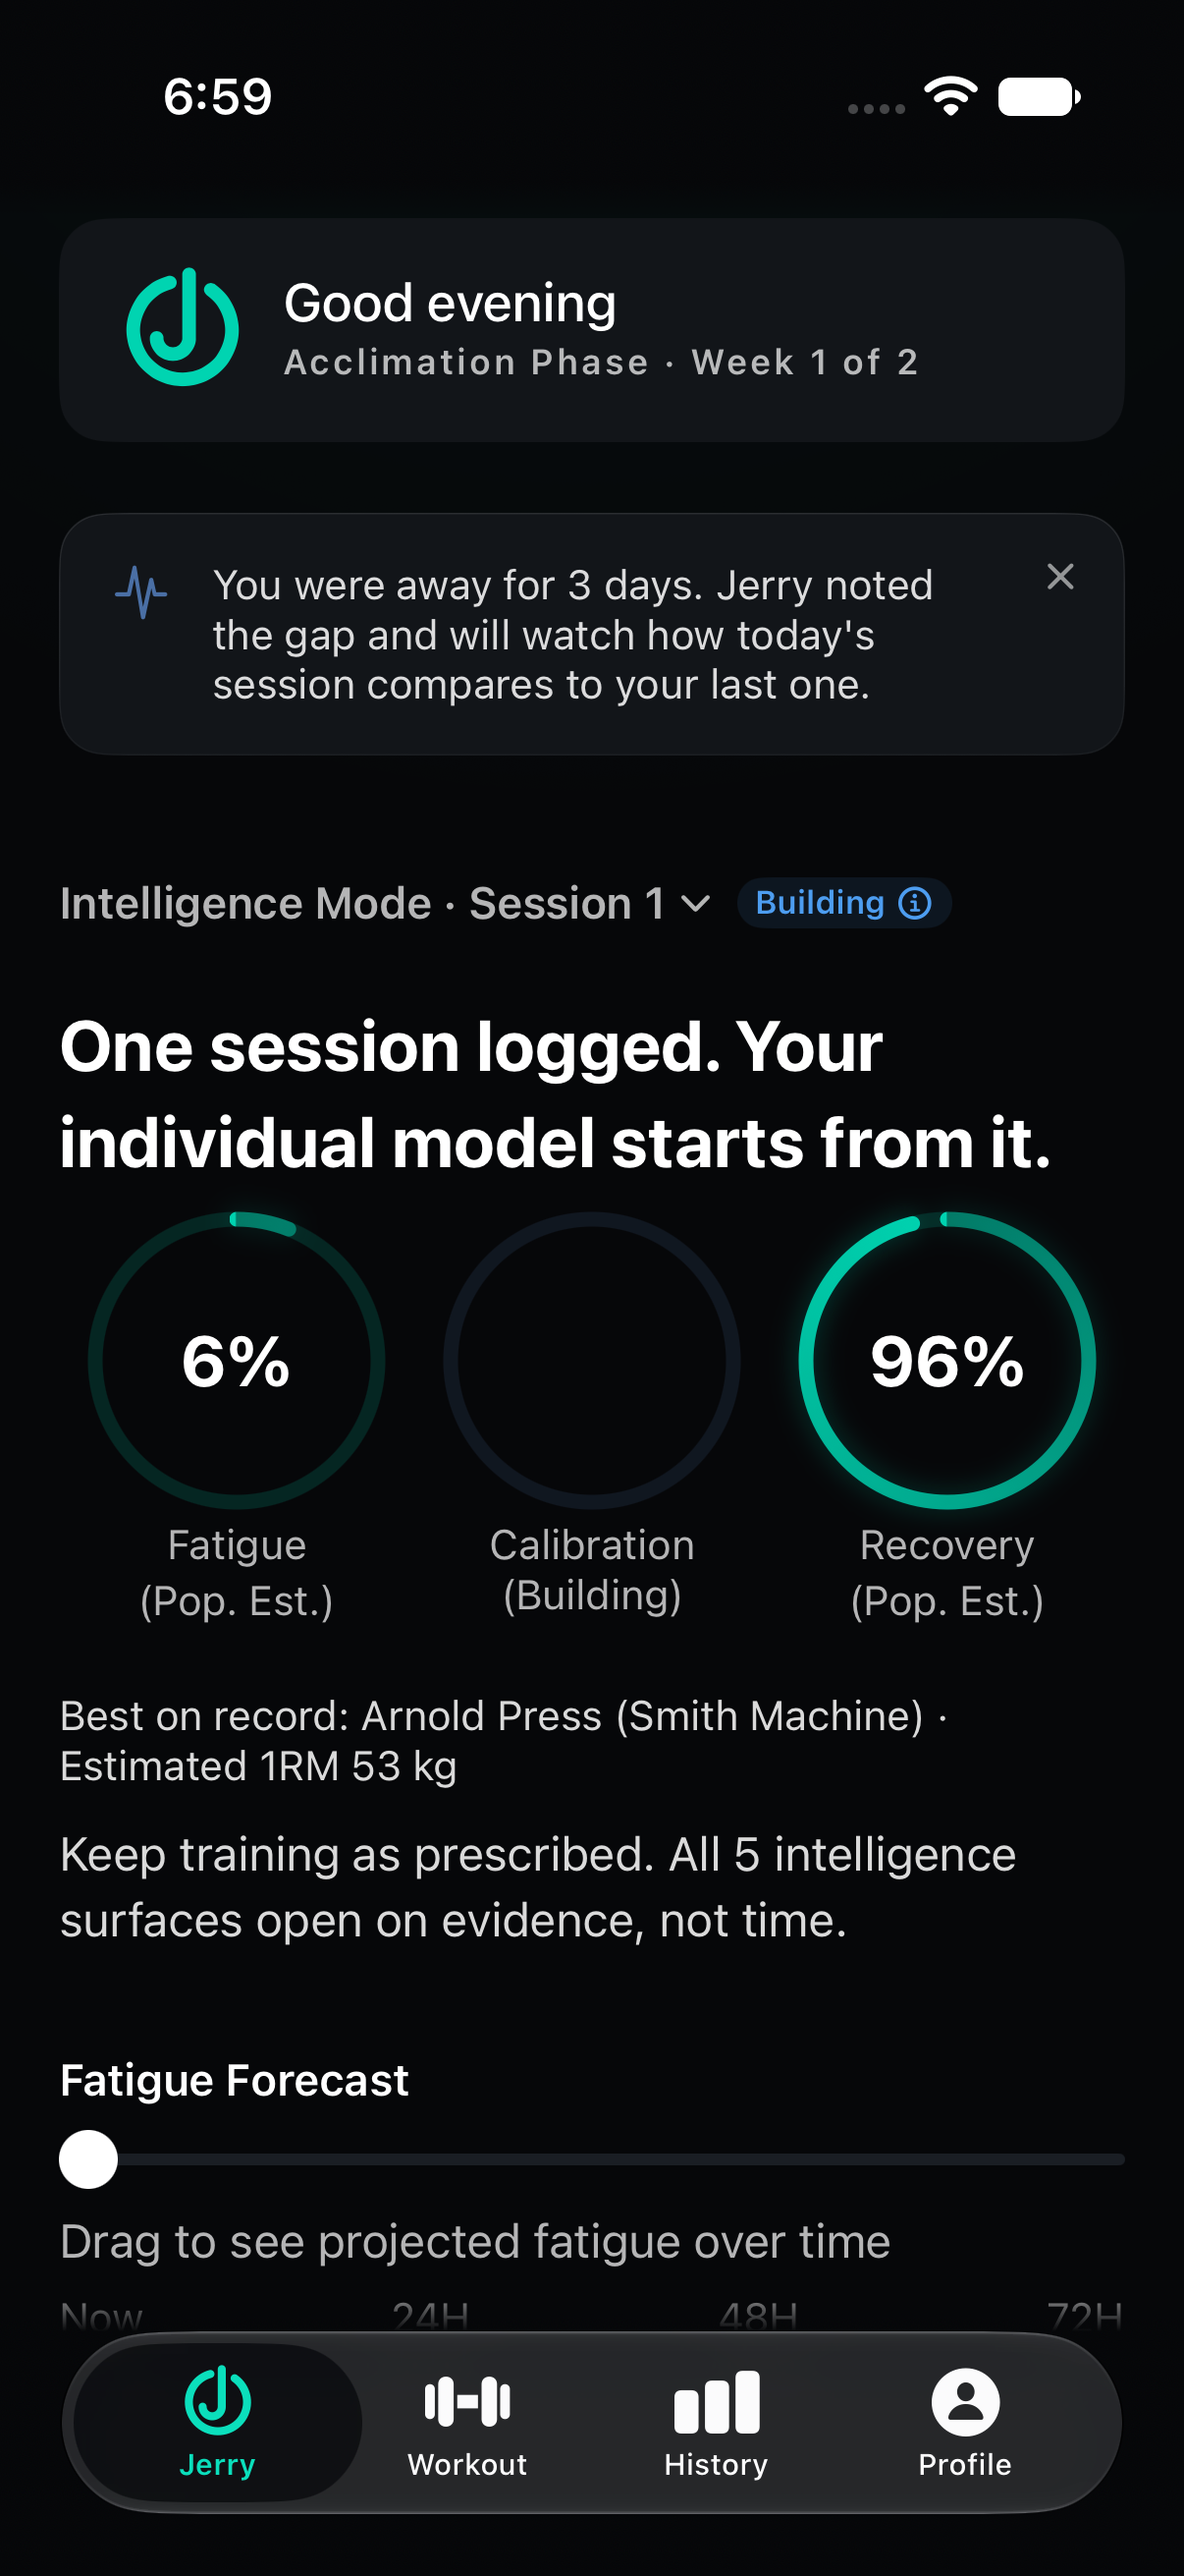
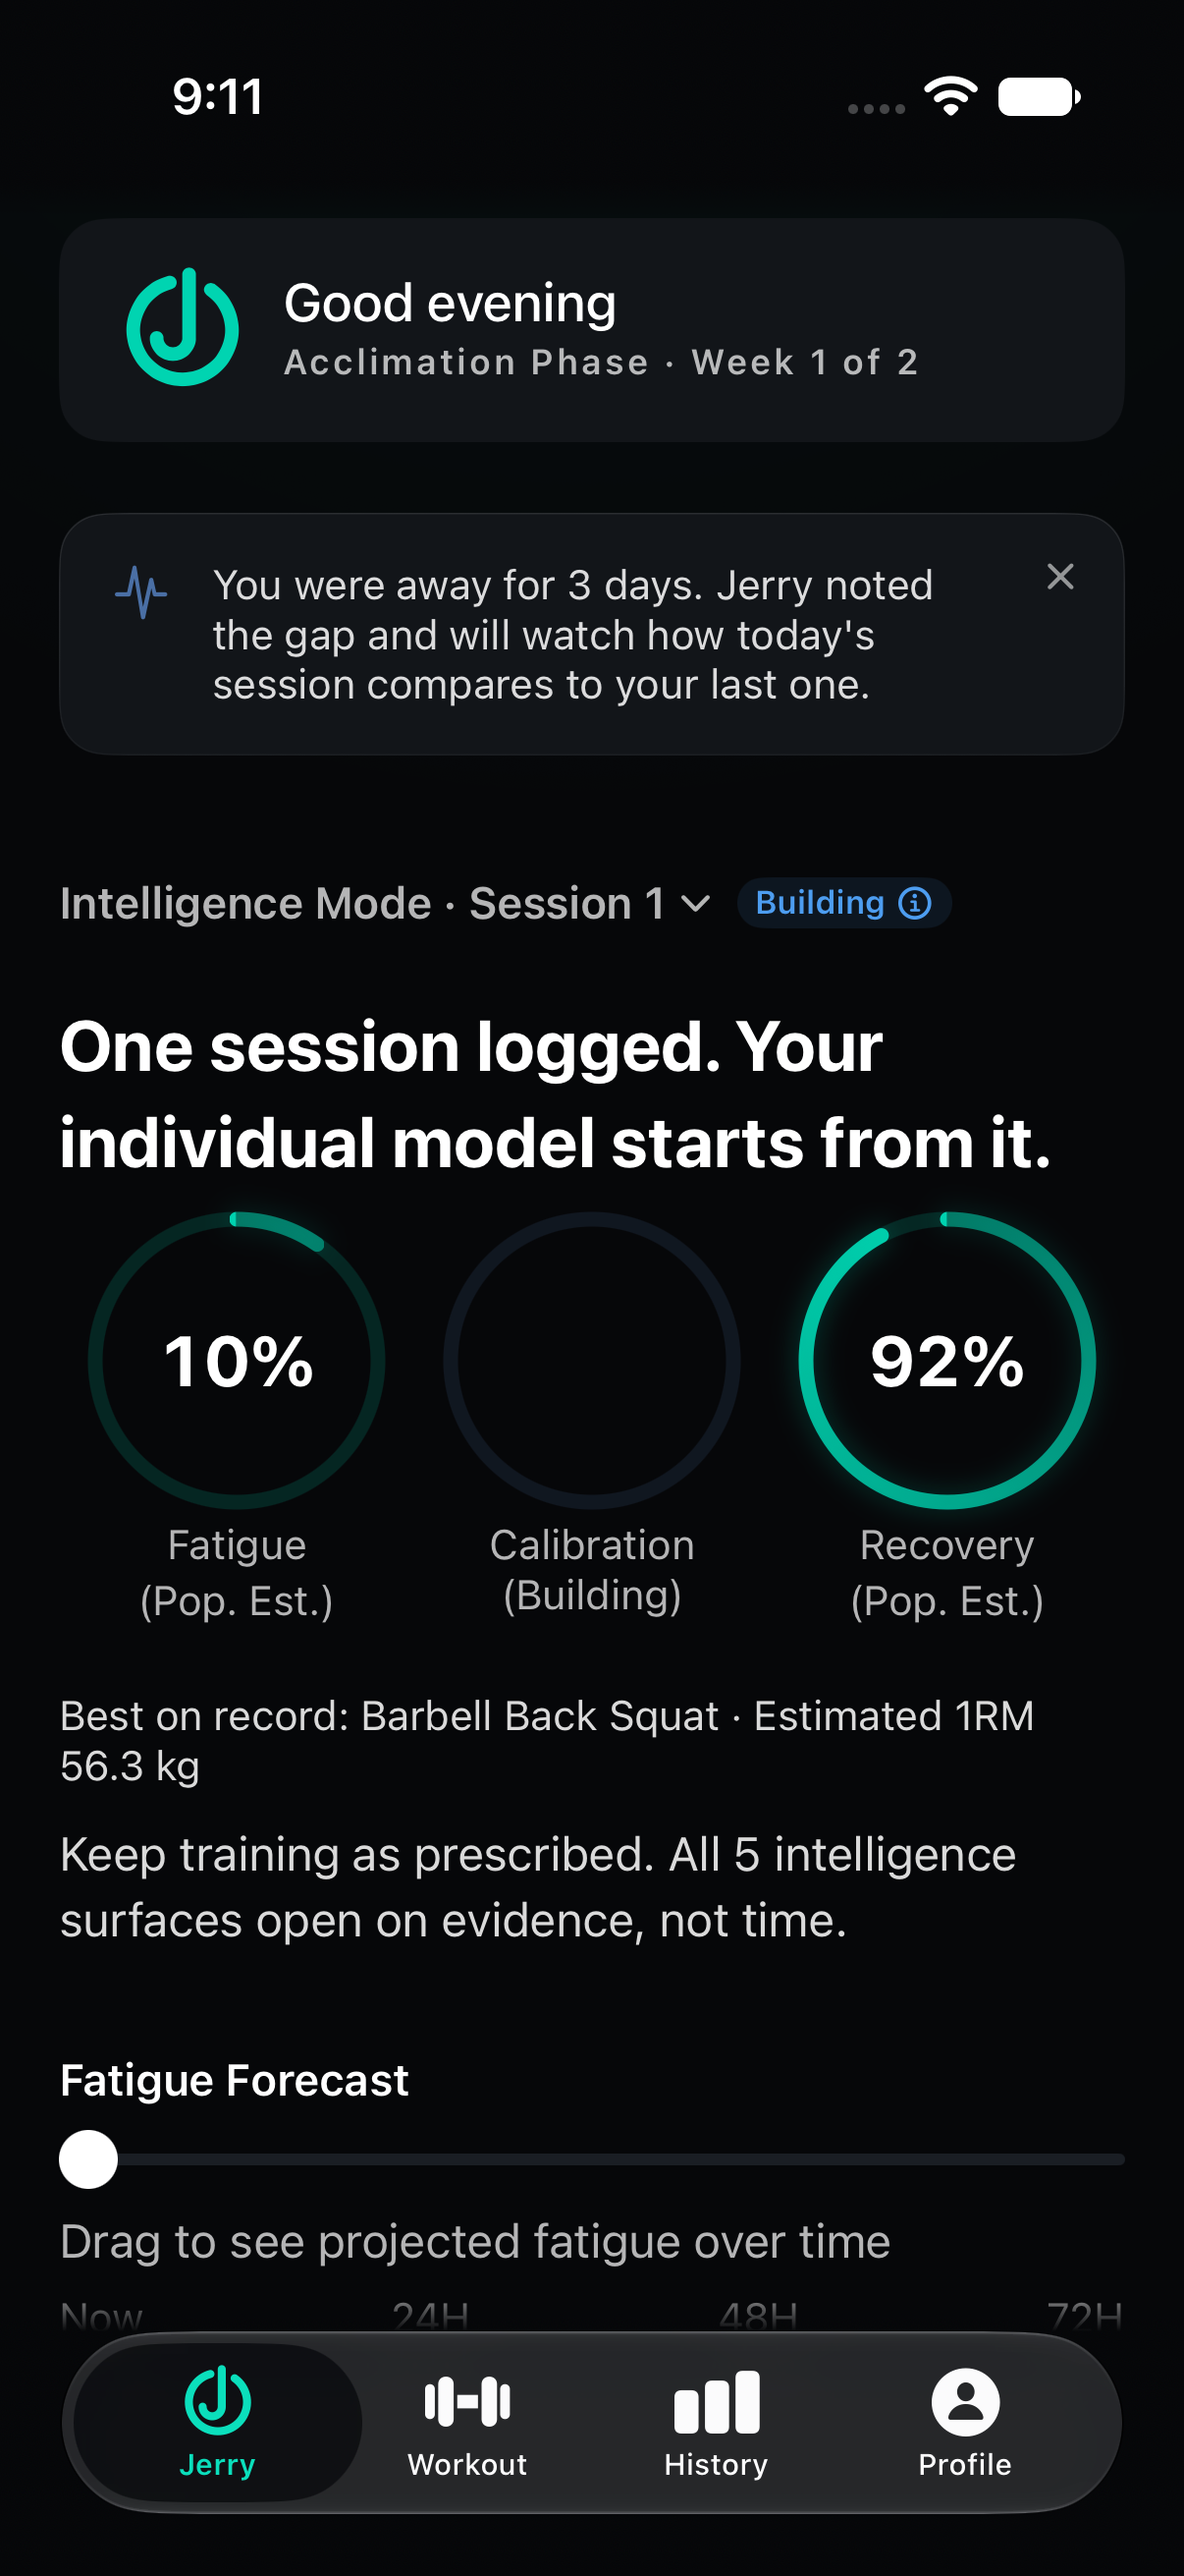
The athlete on the front page trains a week a human would recognise
[verify-exempt: SEPARATE repo at ~/Desktop/orderedstrength-site, zero Swift. The Swift half
of this round lives in the app repo's `.claude/worktrees/shots` worktree and is committed
separately behind its own gate.]

You said the exercise on the screenshot does not exist, and you were right twice over: an
Arnold press rotates the wrists through the press and a Smith bar is fixed in a track, so
nobody has ever performed one. The catalog holding that row is a separate problem for its
own pass. This is why it reached the FRONT PAGE.

THE FIXTURE PHOTOGRAPHED THE ALPHABET. The cold-start seeder took `database.prefix(6)`, and
the catalog is fetched with `NSSortDescriptor(key: "name", ascending: true)`. So the athlete
in every screenshot this project has ever published trained, every time, exactly: 45-Degree
Back Extension, Ab Wheel Rollout, Arnold Press, Arnold Press (Smith Machine), Assisted
Pull-Up, Assisted Pull-Up (Band). No squat. No hinge. No press. No row. Two back-extension
movements, two Arnold presses and two assisted pull-ups, one of which cannot be performed.

The round before this one fixed the LOAD in that same sentence, 152.4 kg down to 53 kg, and
left the name. One sentence, two independent claims, and only one of them was being checked.

WHAT THE PHOTOGRAPHS SHOW NOW, read back out of the pixels rather than off my intent:
"Best on record: Barbell Back Squat . Estimated 1RM 56.3 kg" at one session, 62.9 kg at
[…]

diff --git a/index.html b/index.html
@@ -169,8 +169,8 @@ details.raw pre{font-family:var(--mono);font-size:.6875rem;color:var(--ink3);ove
           <div class="device device--back">
             <div class="device__body"><div class="device__glass">
               <div class="device__screenwrap">
-                <img class="device__screen" src="/assets/shots/intelligence.webp?v=2a0bf63272" width="1206" height="2622" loading="lazy" decoding="async"
-                     alt="The Full Intelligence screen. Each card is tagged Building and states its own basis: 2 sessions, building your model.">
+                <img class="device__screen" src="/assets/shots/intelligence.webp?v=f66583ef3a" width="1206" height="2622" loading="lazy" decoding="async"
+                     alt="The same dashboard scrolled down to the coaching cards. Each one is tagged Building and states its own basis: 1 session, building your model.">
               </div>
               <span class="device__island" aria-hidden="true"></span><span class="device__sheen" aria-hidden="true"></span>
             </div></div>
@@ -179,8 +179,8 @@ details.raw pre{font-family:var(--mono);font-size:.6875rem;color:var(--ink3);ove
           <div class="device device--front">
             <div class="device__body"><div class="device__glass">
               <div class="device__screenwrap">
-                <img class="device__screen" src="/assets/shots/dashboard.webp?v=49dc612b91" width="1206" height="2622" fetchpriority="high" decoding="async"
-                     alt="The OrderedStrength dashboard after one logged session. The mode badge reads Building, the fatigue and recovery rings are labelled Pop. Est. at 6 and 96 percent, and the Calibration ring carries no number at all.">
+                <img class="device__screen" src="/assets/shots/dashboard.webp?v=1dc4cd02ac" width="1206" height="2622" fetchpriority="high" decoding="async"
+                     alt="The OrderedStrength dashboard after one logged session. The mode badge reads Building, the fatigue and recovery rings are labelled Pop. Est. at 10 and 92 percent, and the Calibration ring carries no number at all.">
               </div>
               <span class="device__island" aria-hidden="true"></span><span class="device__sheen" aria-hidden="true"></span>
             </div></div>
@@ -278,7 +278,7 @@ details.raw pre{font-family:var(--mono);font-size:.6875rem;color:var(--ink3);ove
       <div class="device">
         <div class="device__body"><div class="device__glass">
           <div class="device__screenwrap">
-            <img class="device__screen" src="/assets/shots/dashboard.webp?v=49dc612b91" width="1206" height="2622" loading="lazy" decoding="async"
+            <img class="device__screen" src="/assets/shots/dashboard.webp?v=1dc4cd02ac" width="1206" height="2622" loading="lazy" decoding="async"
                  alt="The OrderedStrength dashboard after one logged session, showing an Intelligence Mode badge reading Building, fatigue and recovery rings labelled Pop. Est., and a line reading that all five intelligence surfaces open on evidence, not time.">
         <span class="pin" style="left:79%;top:36.9%" data-pin="0">1</span>
         <span class="pin" style="left:6.5%;top:67.5%" data-pin="1">2</span>
@@ -404,33 +404,33 @@ field   sealedOn = 1755916800</pre>
         <div class="device">
           <div class="device__body"><div class="device__glass">
             <div class="device__screenwrap">
-              <img class="device__screen" src="/assets/shots/dashboard.webp?v=49dc612b91" width="1206" height="2622" loading="lazy" decoding="async"
-                   alt="The dashboard after one logged session. Fatigue reads 6 percent and recovery 96 percent, both labelled Pop. Est., and the Calibration ring carries no number.">
+              <img class="device__screen" src="/assets/shots/dashboard.webp?v=1dc4cd02ac" width="1206" height="2622" loading="lazy" decoding="async"
+                   alt="The dashboard after one logged session. Fatigue reads 10 percent and recovery 92 percent, both labelled Pop. Est., the Calibration ring carries no number, and the best lift on record is a Barbell Back Squat at an estimated one-rep maximum of 56.3 kilograms.">
             </div>
             <span class="device__island" aria-hidden="true"></span><span class="device__sheen" aria-hidden="true"></span>
           </div></div>
           <span class="device__key device__key--act" aria-hidden="true"></span><span class="device__key device__key--vup" aria-hidden="true"></span><span class="device__key device__key--vdn" aria-hidden="true"></span><span class="device__key device__key--pwr" aria-hidden="true"></span><span class="device__key device__key--cam" aria-hidden="true"></span>
         </div>
-        <figcaption><b>What it knows</b><span>Fatigue <code>6%</code> and recovery <code>96%</code>, both stamped <code>Pop. Est.</code> The middle ring says <code>Calibration (Building)</code> and shows no number, because one session is not calibration.</span></figcaption>
+        <figcaption><b>What it knows</b><span>Fatigue <code>10%</code> and recovery <code>92%</code>, both stamped <code>Pop. Est.</code> The middle ring says <code>Calibration (Building)</code> and shows no number, because one session is not calibration. The strongest thing on record is a <code>Barbell Back Squat</code> at <code>Estimated 1RM 56.3 kg</code>, which is what a first block actually weighs.</span></figcaption>
       </figure>
       <figure class="state">
         <div class="device">
           <div class="device__body"><div class="device__glass">
             <div class="device__screenwrap">
-              <img class="device__screen" src="/assets/shots/intelligence.webp?v=2a0bf63272" width="1206" height="2622" loading="lazy" decoding="async"
-                   alt="The Full Intelligence screen. Every card is tagged Building and each states its own basis: 2 sessions, building your model.">
+              <img class="device__screen" src="/assets/shots/intelligence.webp?v=f66583ef3a" width="1206" height="2622" loading="lazy" decoding="async"
+                   alt="The same session, scrolled to the coaching cards. Every card is tagged Building and each states its own basis: 1 session, building your model. Systemic Fatigue reads 10 percent and offers Show Reasoning.">
             </div>
             <span class="device__island" aria-hidden="true"></span><span class="device__sheen" aria-hidden="true"></span>
           </div></div>
           <span class="device__key device__key--act" aria-hidden="true"></span><span class="device__key device__key--vup" aria-hidden="true"></span><span class="device__key device__key--vdn" aria-hidden="true"></span><span class="device__key device__key--pwr" aria-hidden="true"></span><span class="device__key device__key--cam" aria-hidden="true"></span>
         </div>
-        <figcaption><b>Why it says it</b><span>Every card is tagged <code>Building</code> and carries its own basis: <code>2 sessions</code>, building your model. <code>Systemic Fatigue</code> reads <code>7%</code> and offers <code>Show Reasoning</code> rather than asking to be believed.</span></figcaption>
+        <figcaption><b>Why it says it</b><span>The same session, further down. Every card is tagged <code>Building</code> and carries its own basis: <code>1 session</code>, building your model. <code>Systemic Fatigue</code> reads <code>10%</code> and offers <code>Show Reasoning</code> rather than asking to be believed.</span></figcaption>
       </figure>
       <figure class="state">
         <div class="device">
           <div class="device__body"><div class="device__glass">
             <div class="device__screenwrap">
-              <img class="device__screen" src="/assets/shots/evidence.webp?v=bb930a5b16" width="1206" height="2622" loading="lazy" decoding="async"
+              <img class="device__screen" src="/assets/shots/evidence.webp?v=7f031d6a7e" width="1206" height="2622" loading="lazy" decoding="async"
                    alt="The Trust Intelligence screen, listing open investigations and the evidence each one still needs before it will make a claim.">
             </div>
             <span class="device__island" aria-hidden="true"></span><span class="device__sheen" aria-hidden="true"></span>

diff --git a/tools/audit-captures.py b/tools/audit-captures.py
@@ -9,7 +9,17 @@ failures that actually shipped to the front page on 2026-08-23:
      "3 sessions logged");
   3. "Estimated 1RM" is a number no human in an acclimation block lifts;
   4. the Calibration ring carries no percentage, which means the RIR belief never
-     updated, which means the reserve was logged unauthored.
+     updated, which means the reserve was logged unauthored;
+  5. the movement named beside that number is not one the seeded athlete trains.
+
+Number 5 is here because number 3 was fixed on its own and the sentence stayed wrong.
+The load was corrected to a plausible 53 kg and the line still read "Best on record:
+Arnold Press (Smith Machine)", which is a movement that cannot be performed: an Arnold
+press is defined by rotating the wrists through the press, and a Smith bar is fixed in a
+track. It reached the front page of the website and the CEO caught it there. The cause
+was a fixture taking `database.prefix(6)` of a catalog sorted alphabetically, so the
+photographed athlete trained the first six rows of the letter A. Checking the NUMBER and
+not the NAME is checking half of one sentence.
 
 Usage: python3 tools/audit-captures.py <capture-dir>
 """
@@ -18,6 +28,16 @@ import re, sys, os, subprocess, glob
 ROOT = os.path.dirname(os.path.dirname(os.path.abspath(__file__)))
 PLAUSIBLE_1RM = (20.0, 90.0)     # an acclimation-block beginner, in kilograms
 MAX_LAPSE_DAYS = 10              # the fixture trains every 3 days
+
+# The six movements JerryEnvironment.seedColdStartSessions names, lower-cased. This IS a
+# coupling to the app repo and the coupling is the point: the site publishes a photograph
+# of one specific seeded athlete, and the only way to know the photograph shows him is to
+# know who he is. If the fixture's six change, this list changes with them, and until it
+# does the audit says so out loud rather than passing a screen it can no longer vouch for.
+SEEDED_LIFTS = {
+    'overhead press', 'barbell row', 'barbell bench press',
+    'lat pulldown', 'romanian deadlift', 'barbell back squat',
+}
 
 
 def ocr(path):
@@ -50,6 +70,17 @@ def audit(path):
         v = float(m_1rm.group(1))
         if not (PLAUSIBLE_1RM[0] <= v <= PLAUSIBLE_1RM[1]):
             issues.append(f'"Estimated 1RM {v} kg" is outside {PLAUSIBLE_1RM[0]:.0f}-{PLAUSIBLE_1RM[1]:.0f} kg')
+
+    # THE NAME BESIDE THE NUMBER. Matched on a normalised copy because Vision returns the
+    # separator as a hyphen, a middle dot or an interpunct depending on the render, and a
+    # checker that only knows one of them reports clean on the other two.
+    m_best = re.search(r'best on record[:\s]+(.+?)(?:\s*[-\u00b7\u2022|]\s*estimated|\s+estimated|$)', low)
+    if m_best:
+        movement = re.sub(r'\s+', ' ', m_best.group(1)).strip(' .,:-\u00b7')
+        if movement and movement not in SEEDED_LIFTS:
+            issues.append(f'"Best on record: {movement}" is not one of the six lifts the '
+                          f'fixture seeds, so this frame photographs an athlete the fixture '
+                          f'did not build')
 
     if 'calibration' in low:
         # the ring's own centre text is a percentage; building renders none

diff --git a/tools/shot-gate.py b/tools/shot-gate.py
@@ -15,13 +15,32 @@ So: read the text out of every published screenshot with the OS's own Vision fra
 and assert that every quoted phrase and every number the page states about that screenshot
 is actually present in it. A claim the pixels do not support fails the build.
 
-It also refuses a capture that is not native resolution, and one that is a system
-permission sheet rather than the product.
+It also refuses a capture that is not native resolution, one that is a system permission
+sheet rather than the product, and one whose "Best on record" line names a movement the
+seeded athlete does not train.
+
+🔒 THAT LAST ONE EXISTS BECAUSE FIXING THE NUMBER LEFT THE SENTENCE WRONG. The published
+dashboard read "Best on record: Arnold Press (Smith Machine) . Estimated 1RM 152.4 kg".
+The load was corrected to a plausible 53 kg and shipped, and the line still named a
+movement that cannot be performed: an Arnold press is defined by rotating the wrists
+through the press, and a Smith bar is fixed in a track. The CEO found it on the front
+page. One sentence, two independent claims, and only one of them was being checked.
 """
 import re, sys, os, subprocess, unicodedata
 
 ROOT = os.path.dirname(os.path.dirname(os.path.abspath(__file__)))
 NATIVE = (1206, 2622)
+
+# The six movements JerryEnvironment.seedColdStartSessions names, normalised the way norm()
+# leaves them. This IS a coupling to the app repo and the coupling is the point: the site
+# publishes a photograph of one specific seeded athlete, and the only way to know the
+# photograph shows HIM is to know who he is. When the fixture's six change, this changes
+# with them, and until it does the gate says so rather than vouching for a screen it can no
+# longer vouch for. tools/audit-captures.py carries the same list for the upstream pass.
+SEEDED_LIFTS = {
+    'overhead press', 'barbell row', 'barbell bench press',
+    'lat pulldown', 'romanian deadlift', 'barbell back squat',
+}
 
 
 def ocr(path):
@@ -114,6 +133,13 @@ def main():
                 issues.append(f"not native resolution: {im.size[0]}x{im.size[1]}, expected {NATIVE[0]}x{NATIVE[1]}")
             if 'health access' in t or 'access your health data' in t:
                 issues.append("this is a system permission sheet, not the product")
+            m_best = re.search(r'best on record[:/\s]+(.+?)(?:\s*[/|-]\s*estimated|\s+estimated|$)', t)
+            if m_best:
+                movement = re.sub(r'\s+', ' ', m_best.group(1)).strip(" .,:-/'\"")
+                if movement and movement not in SEEDED_LIFTS:
+                    issues.append(f'"Best on record: {movement}" names a movement the fixture '
+                                  f'does not seed, so this photograph is of an athlete the app '
+                                  f'never built')
         for kind, c in claims(said):
             if c not in t:
                 issues.append(f"{where} states {kind} \"{c}\" and the pixels do not show it")
